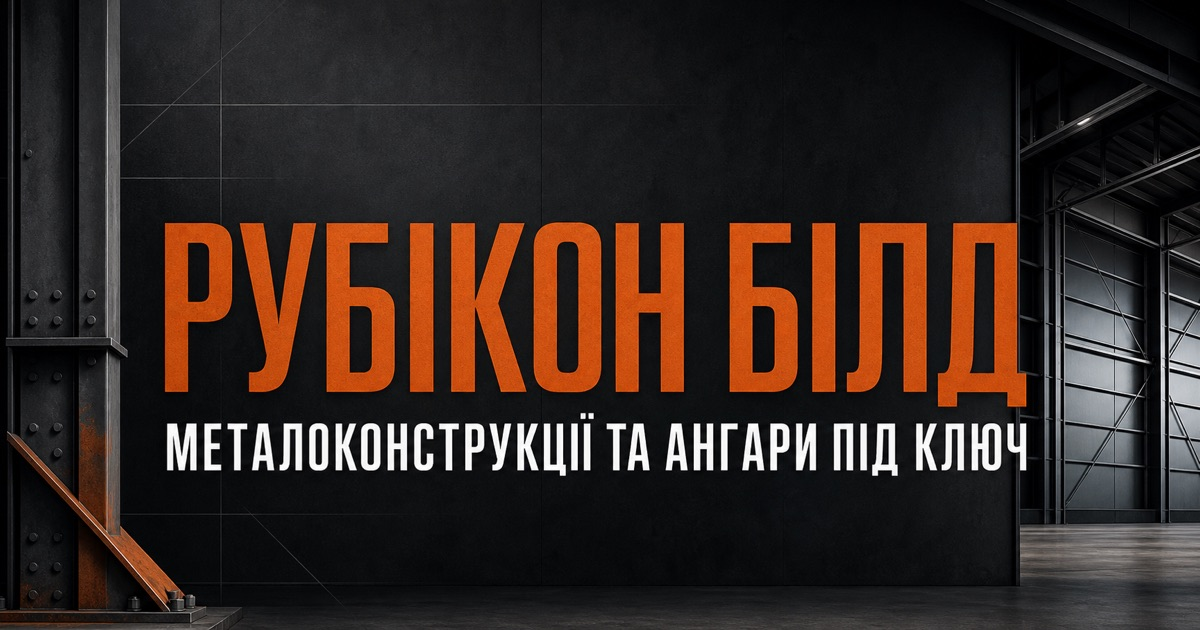
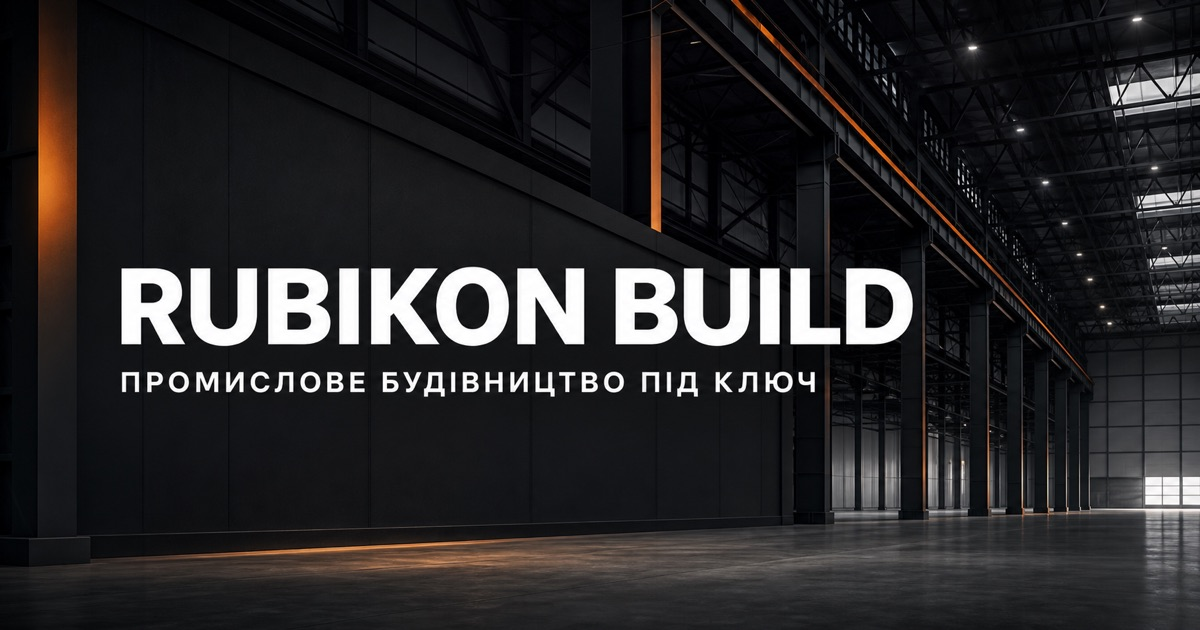
Broaden industrial construction positioning

diff --git a/app/layout.tsx b/app/layout.tsx
@@ -22,9 +22,9 @@ const display = Jost({
 
 export const metadata: Metadata = {
   metadataBase: new URL('https://rubicon-build.bronze-spoon-6603.chatgpt.site'),
-  title: 'Металоконструкції та ангари у Дніпрі | RUBIKON BUILD',
+  title: 'Промислове будівництво у Дніпрі | RUBIKON BUILD',
   description:
-    'Металоконструкції, ангари, склади й зерносховища у Дніпрі та області: будівництво під ключ або окремі роботи у форматі підряду та субпідряду.',
+    'Промислове будівництво у Дніпрі та області: комплексна реалізація об’єктів або окремі роботи у форматі підряду й субпідряду.',
   alternates: {
     canonical: '/',
   },
@@ -34,8 +34,8 @@ export const metadata: Metadata = {
     shortcut: '/favicon.svg',
   },
   openGraph: {
-    title: 'Металоконструкції та промислові споруди під ключ | RUBIKON BUILD',
-    description: 'Промислові споруди під ключ або окремі роботи з металоконструкцій, бетонування, фасадів і монтажу у Дніпрі та області.',
+    title: 'Промислове будівництво під ключ | RUBIKON BUILD',
+    description: 'Промислові, складські й аграрні об’єкти під ключ або окремі роботи у форматі підряду та субпідряду у Дніпрі та області.',
     type: 'website',
     locale: 'uk_UA',
     siteName: 'RUBIKON BUILD',
@@ -45,14 +45,14 @@ export const metadata: Metadata = {
         url: '/og.jpg',
         width: 1200,
         height: 630,
-        alt: 'RUBIKON BUILD — металоконструкції та промислові споруди під ключ',
+        alt: 'RUBIKON BUILD — промислове будівництво під ключ',
       },
     ],
   },
   twitter: {
     card: 'summary_large_image',
-    title: 'Металоконструкції та промислові споруди під ключ | RUBIKON BUILD',
-    description: 'Промислові споруди під ключ або окремі роботи у форматі підряду та субпідряду.',
+    title: 'Промислове будівництво під ключ | RUBIKON BUILD',
+    description: 'Промислові, складські й аграрні об’єкти під ключ або окремі роботи у форматі підряду та субпідряду.',
     images: ['/og.jpg'],
   },
 };

diff --git a/app/page.tsx b/app/page.tsx
@@ -125,13 +125,11 @@ export default function Home() {
         <div className="shell hero-layout">
           <div className="hero-copy">
             <h1>
-              Металоконструкції та<br />промислові споруди <em>під ключ</em>
+              Промислове будівництво — від окремих робіт до об’єкта <em>під ключ</em>
             </h1>
             <p className="hero-lead">
-              Будуємо ангари, склади, зерносховища та інші промислові й комерційні об’єкти
-              під ключ — від технічного рішення до монтажу й здачі. Також виконуємо окремі
-              етапи як підрядник або субпідрядник: металоконструкції, бетонні та фасадні роботи.
-              Основний регіон — Дніпро та область; масштабні проєкти — по Україні.
+              Проєктуємо та будуємо промислові, складські й аграрні об’єкти. Працюємо
+              комплексно або виконуємо окремі етапи як підрядник чи субпідрядник.
             </p>
             <div className="hero-actions">
               <Link className="button button-primary" href="#contact">

diff --git a/app/globals.css b/app/globals.css
@@ -120,7 +120,7 @@ section[id] { scroll-margin-top: 98px; }
   text-transform: uppercase;
   line-height: .98;
 }
-.hero h1 { max-width: 1100px; font-family: var(--font-display), var(--font-manrope), sans-serif; font-size: clamp(56px, 6.2vw, 94px); font-weight: 400; line-height: 1.06; letter-spacing: -.035em; text-transform: none; }
+.hero h1 { max-width: 1100px; font-family: var(--font-display), var(--font-manrope), sans-serif; font-size: clamp(56px, 6.2vw, 94px); font-weight: 400; line-height: 1.06; letter-spacing: -.035em; text-transform: none; text-wrap: balance; }
 .hero h1 em { color: var(--accent); font-style: normal; }
 .hero-lead { max-width: 650px; margin: 34px 0 0; color: rgba(255,255,255,.7); font-size: 17px; line-height: 1.7; }
 .hero-actions { display: flex; align-items: center; gap: 32px; margin-top: 40px; }
